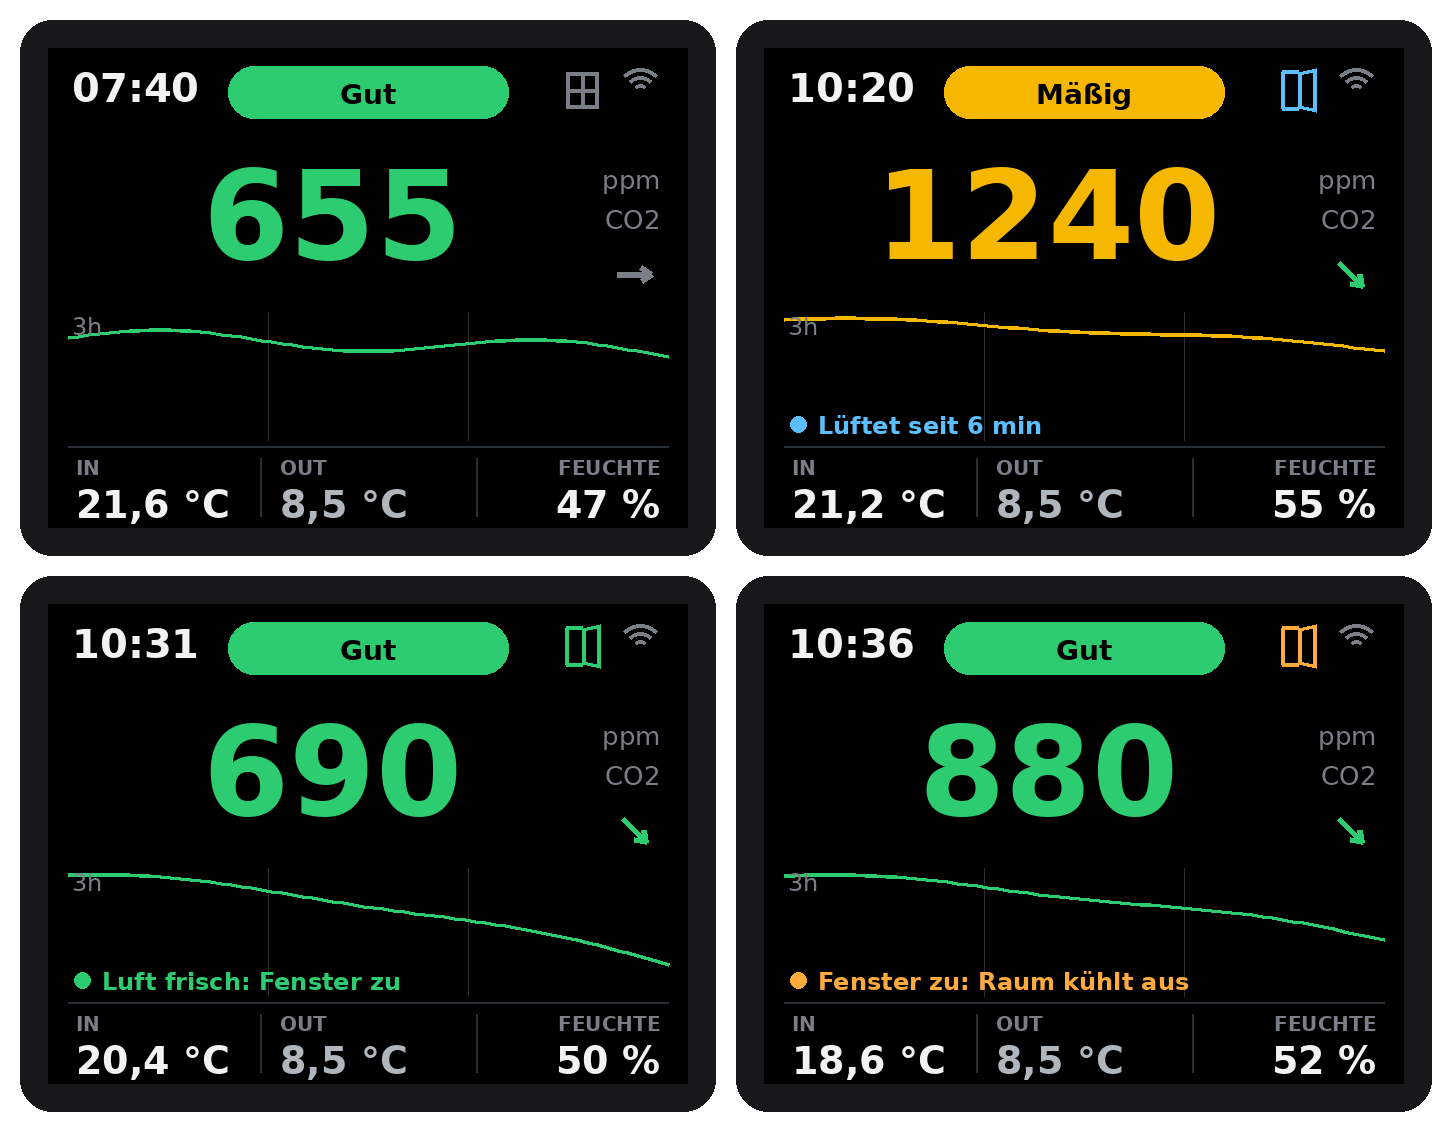
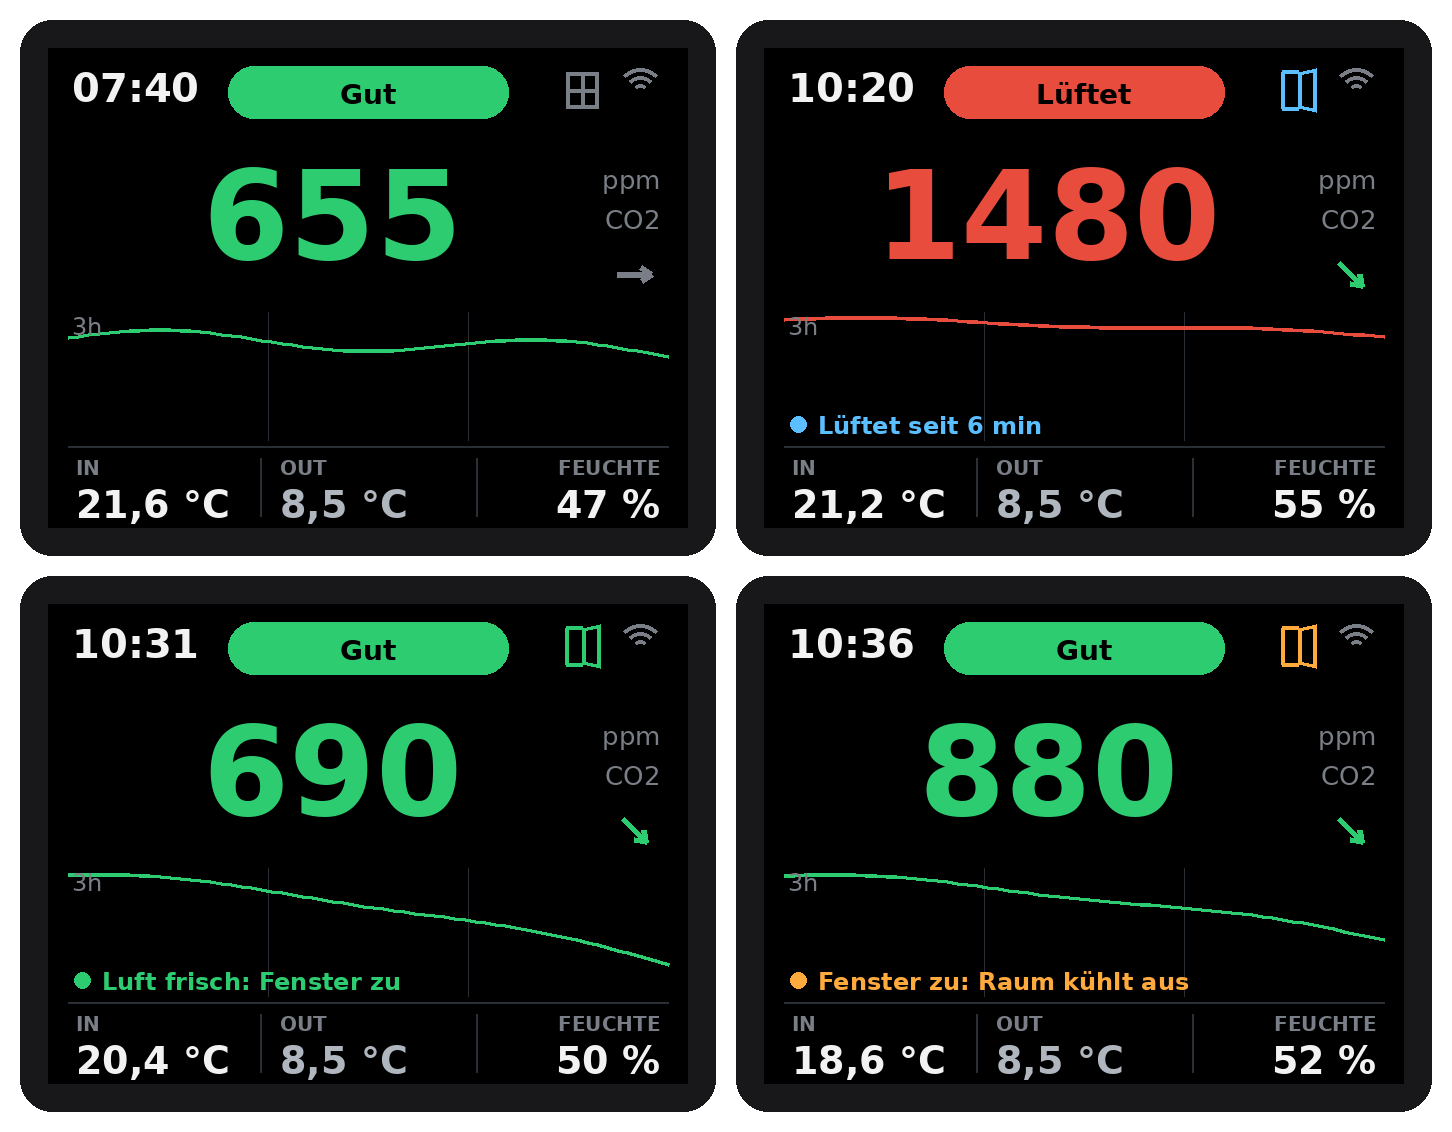
fix(firmware): an open window means airing, pill, night warning and forecast follow it (#41)
* fix(firmware): an open window means airing: pill, night warning and forecast follow it

Claude-Session: https://claude.ai/code/session_015HxB3nZPNGitZsjqH2sYhj

* docs(images): display preview with the airing pill

Claude-Session: https://claude.ai/code/session_015HxB3nZPNGitZsjqH2sYhj

---------

Changed region(s): [[0.6198, 0.0309, 0.8678, 0.2473], [0.5579, 0.2783, 0.9607, 0.3092]]

diff --git a/tools/display_preview.py b/tools/display_preview.py
@@ -35,6 +35,7 @@ TEXT = {
         "good": "Good",
         "moderate": "Moderate",
         "ventilate": "Ventilate!",
+        "airing_pill": "Airing",
         "sep": ".",
         "fc": "ventilate in ~{m} min",
         "hum": "HUMIDITY",
@@ -50,6 +51,7 @@ TEXT = {
         "good": "Gut",
         "moderate": "Mäßig",
         "ventilate": "Lüften!",
+        "airing_pill": "Lüftet",
         "sep": ",",
         "fc": "lüften in ca. {m} min",
         "hum": "FEUCHTE",
@@ -72,7 +74,7 @@ STATES = [
 # window contact from Home Assistant: shut (grey), airing (blue), fresh again (green), room cools down (orange)
 WINDOW_STATES = [
     ("good", 655, 21.6, 47, "07:40", 700, "steady", None, 8.5, None, "closed"),
-    ("moderate", 1240, 21.2, 55, "10:20", 1520, "falling", None, 8.5, "airing", "airing"),
+    ("ventilate", 1480, 21.2, 55, "10:20", 1650, "falling", None, 8.5, "airing", "airing"),
     ("good", 690, 20.4, 50, "10:31", 1450, "falling", None, 8.5, "fresh", "fresh"),
     ("good", 880, 18.6, 52, "10:36", 1400, "falling", None, 8.5, "cold", "cold"),
 ]
@@ -171,7 +173,10 @@ def screen(
     pw, ph = 140, 26
     px, py = (W - pw) / 2, 9
     d.rounded_rectangle([s(px), s(py), s(px + pw), s(py + ph)], radius=s(ph / 2), fill=level)
-    text(d, (W / 2, py + ph / 2 + 1), t[state], font(14, True), (0, 0, 0), "mm")
+    window_is_open = window not in (None, "closed")
+    # red with an open window: the pill says you are airing instead of asking for it (as in the firmware)
+    pill = t["airing_pill"] if state == "ventilate" and window_is_open else t[state]
+    text(d, (W / 2, py + ph / 2 + 1), pill, font(14, True), (0, 0, 0), "mm")
 
     text(d, (W / 2 - 18, 84), f"{co2}", font(62, True), level, "mm")
     text(d, (W - 14, 74), "ppm", font(13), COLORS["muted"], "rd")
@@ -196,7 +201,7 @@ def screen(
         d.ellipse([s(17 - r), s(188 - r), s(17 + r), s(188 + r)], fill=HINT_COLORS[hint])
         text(d, (27, 196), t[hint], font(12, True), HINT_COLORS[hint], "ld")
         hint_end = 27 + d.textlength(t[hint], font=font(12, True)) / SCALE
-    if forecast:  # gives way to the hint when both do not fit side by side (as in the firmware)
+    if forecast and not window_is_open:  # gives way to the hint when both do not fit side by side (as in the firmware)
         fc = t["fc"].format(m=forecast)
         if not hint or W - 12 - d.textlength(fc, font=font(12)) / SCALE > hint_end + 12:
             text(d, (W - 12, 196), fc, font(12), COLORS["muted"], "rd")

diff --git a/README.de.md b/README.de.md
@@ -130,7 +130,7 @@ Maschinenlesbar: [`hardware/bom.yaml`](hardware/bom.yaml). Teile, Preise und Sho
 | Display Helligkeit | Licht | von Hand dimmen oder ausschalten |
 | Nachtmodus, Nacht ab, Nacht bis | Schalter, Uhrzeit | Nachtzeit (Standard 22 bis 6 Uhr) |
 | Display in der Nacht, Nachthelligkeit | Auswahl, Zahl | dimmen (Standard 8 %) oder aus |
-| Rote Warnung auch nachts | Schalter | das Display geht an, solange der CO2-Wert rot ist |
+| Rote Warnung auch nachts | Schalter | das Display geht an, solange der CO2-Wert rot ist (nicht bei offenem Fenster) |
 | Fensterhinweis auf dem Display, Fenstersymbol auf dem Display, Außenwert auf dem Display | Schalter | ein- oder ausblenden |
 | Display auf dem Kopf | Schalter | dreht das Bild um 180°, falls es auf dem Kopf steht |
 | Fensterhinweis ab Innentemperatur, Fensterhinweis: draußen kühler um | Zahl | Standard 24 °C und 3 °C |
@@ -152,7 +152,7 @@ Das Display zeigt die Außentemperatur unter **OUT**, der Fensterhinweis verglei
 
 ### Fensterkontakte
 
-Mit einem Fensterkontakt weiß das Gerät, wann du lüftest. Das Fenstersymbol oben ist grau, solange die Fenster zu sind. Geht eins auf, wird es blau und die Hinweiszeile zählt die Minuten (*Lüftet seit 6 min*). Grün heißt, die Luft ist wieder frisch (*Luft frisch: Fenster zu*, unter 700 ppm), orange, dass der Raum zu stark auskühlt (*Fenster zu: Raum kühlt aus*, unter 19 °C). Beide Schwellen sind Einstellungen in Home Assistant, ein Schalter blendet das Symbol aus. Jeder Schritt mit Bildern: [Home Assistant Anleitung](docs/de/home-assistant.md).
+Mit einem Fensterkontakt weiß das Gerät, wann du lüftest. Das Fenstersymbol oben ist grau, solange die Fenster zu sind. Geht eins auf, wird es blau und die Hinweiszeile zählt die Minuten (*Lüftet seit 6 min*). Grün heißt, die Luft ist wieder frisch (*Luft frisch: Fenster zu*, unter 700 ppm), orange, dass der Raum zu stark auskühlt (*Fenster zu: Raum kühlt aus*, unter 19 °C). Bei offenem Fenster sagt die rote Anzeige *Lüftet* statt *Lüften!*, und die rote Warnung weckt nachts nicht das Display. Beide Schwellen sind Einstellungen in Home Assistant, ein Schalter blendet das Symbol aus. Jeder Schritt mit Bildern: [Home Assistant Anleitung](docs/de/home-assistant.md).
 
 <div align="center">
 <img src="docs/images/display_window_de.png" width="70%" alt="Fenstersymbol zu, lüftet, Luft frisch und Raum kühlt aus">

diff --git a/README.md b/README.md
@@ -130,7 +130,7 @@ Machine-readable: [`hardware/bom.yaml`](hardware/bom.yaml). This file is the onl
 | Display brightness | light | dim or switch off the display by hand |
 | Night mode, Night from, Night until | switch, time | night schedule (default 22:00 to 06:00) |
 | Display at night, Night brightness | select, number | dim (default 8 %) or switch off |
-| Red warning at night | switch | the display wakes up while the CO2 level is red |
+| Red warning at night | switch | the display wakes up while the CO2 level is red (not while a window is open) |
 | Window hint on the display, Window symbol on the display, Outdoor value on the display | switch | show or hide them |
 | Display upside down | switch | turns the picture by 180° if it stands on its head |
 | Window hint from indoor temperature, Window hint: cooler outside by | number | default 24 °C and 3 °C |
@@ -152,7 +152,7 @@ The display shows the outdoor temperature under **OUT**, and the window hint com
 
 ### Window contacts
 
-With a window contact the device knows when you are airing. The window symbol at the top is grey while the windows are shut. Open one and it turns blue, the hint line counts the minutes (*Airing for 6 min*), green tells you the air is fresh again (*Fresh air: close the window*, below 700 ppm) and orange that the room cools down too much (*Close the window: room cools down*, below 19 °C). Both thresholds are settings in Home Assistant, a switch hides the symbol. Every step with pictures: [Home Assistant guide](docs/home-assistant.md).
+With a window contact the device knows when you are airing. The window symbol at the top is grey while the windows are shut. Open one and it turns blue, the hint line counts the minutes (*Airing for 6 min*), green tells you the air is fresh again (*Fresh air: close the window*, below 700 ppm) and orange that the room cools down too much (*Close the window: room cools down*, below 19 °C). While a window is open the red pill says *Airing* instead of *Ventilate!* and the red warning does not wake the display at night. Both thresholds are settings in Home Assistant, a switch hides the symbol. Every step with pictures: [Home Assistant guide](docs/home-assistant.md).
 
 <div align="center">
 <img src="docs/images/display_window_en.png" width="70%" alt="Window symbol shut, airing, fresh air and room cools down">

diff --git a/docs/home-assistant.md b/docs/home-assistant.md
@@ -27,7 +27,7 @@ Under **Configuration** on the device page:
 | Smoothing (*Glättung*) | on | Mean of the current and the previous reading, calms small jumps. |
 | Trend arrow from (*Trendpfeil ab*) | 100 ppm/h | From this change per hour the arrow points up or down. |
 | Night mode, Night from, Night until | on, 22:00 to 06:00 | Display dimmed (default 8 %) or off at night. |
-| Red warning at night (*Rote Warnung auch nachts*) | on | The display wakes up while the level is red. |
+| Red warning at night (*Rote Warnung auch nachts*) | on | The display wakes up while the level is red, but not while a window is open. |
 | Display upside down (*Display auf dem Kopf*) | off | Turns the picture by 180°. |
 
 ## 3. Outdoor values
@@ -61,6 +61,8 @@ A second window later? Add it to the group. Several devices in different rooms? 
 | blue, open | *Window open: airing*, then *Airing for 6 min* | a window is open |
 | green, open | *Fresh air: close the window* | CO2 below **Fresh air below** (*Luft frisch unter*, default 700 ppm) |
 | orange, open | *Close the window: room cools down* | indoor temperature below **Window warning below** (*Fensterwarnung unter*, default 19 °C) |
+
+While a window is open the device knows you are airing: the red pill says **Airing** (*Lüftet*) instead of *Ventilate!*, the red warning does not wake the display at night, *ventilate in ~x min* is hidden and the outdoor hints (*Open the window: cooler outside* and so on) only come back once all windows are shut. The *Air quality* entity in Home Assistant keeps reporting the measurement (*Ventilate!* above red), so your own automations should check the window group too, like the examples in `homeassistant/`.
 
 The symbol appears as soon as Home Assistant delivers the group. **Window symbol on the display** (*Fenstersymbol auf dem Display*) hides it, **Window hint on the display** hides the hint line. The cooling warning wins over the fresh air message, because a cold room matters more.
 

diff --git a/docs/de/home-assistant.md b/docs/de/home-assistant.md
@@ -27,7 +27,7 @@ Unter **Konfiguration** auf der Geräteseite:
 | Glättung (*Smoothing*) | an | Mittelwert aus aktuellem und vorherigem Messwert, beruhigt kleine Sprünge. |
 | Trendpfeil ab (*Trend arrow from*) | 100 ppm/h | Ab dieser Änderung pro Stunde zeigt der Pfeil nach oben oder unten. |
 | Nachtmodus, Nacht ab, Nacht bis | an, 22:00 bis 06:00 | Display nachts gedimmt (Standard 8 %) oder aus. |
-| Rote Warnung auch nachts (*Red warning at night*) | an | Das Display geht an, solange der Wert rot ist. |
+| Rote Warnung auch nachts (*Red warning at night*) | an | Das Display geht an, solange der Wert rot ist, aber nicht bei offenem Fenster. |
 | Display auf dem Kopf (*Display upside down*) | aus | Dreht das Bild um 180°. |
 
 ## 3. Außenwerte
@@ -61,6 +61,8 @@ Später ein zweites Fenster? Einfach zur Gruppe hinzufügen. Mehrere Geräte in 
 | blau, offen | *Fenster offen: lüftet*, dann *Lüftet seit 6 min* | ein Fenster ist offen |
 | grün, offen | *Luft frisch: Fenster zu* | CO2 unter **Luft frisch unter** (Standard 700 ppm) |
 | orange, offen | *Fenster zu: Raum kühlt aus* | Innentemperatur unter **Fensterwarnung unter** (Standard 19 °C) |
+
+Solange ein Fenster offen ist, weiß das Gerät, dass du lüftest: Die rote Anzeige oben sagt **Lüftet** statt *Lüften!*, die rote Warnung weckt nachts nicht das Display, *lüften in ca. x min* verschwindet, und die Außenhinweise (*Fenster auf: außen kühler* und so weiter) kommen erst wieder, wenn alle Fenster zu sind. Die Entität *Luftqualität* in Home Assistant meldet weiter den Messwert (*Lüften!* über Rot). Eigene Automationen sollten deshalb auch die Fenstergruppe prüfen, wie die Beispiele in `homeassistant/de`.
 
 Das Symbol erscheint, sobald Home Assistant die Gruppe liefert. **Fenstersymbol auf dem Display** blendet es aus, **Fensterhinweis auf dem Display** die Hinweiszeile. Die Auskühlwarnung geht vor der Frischluftmeldung, weil ein kalter Raum wichtiger ist.
 
